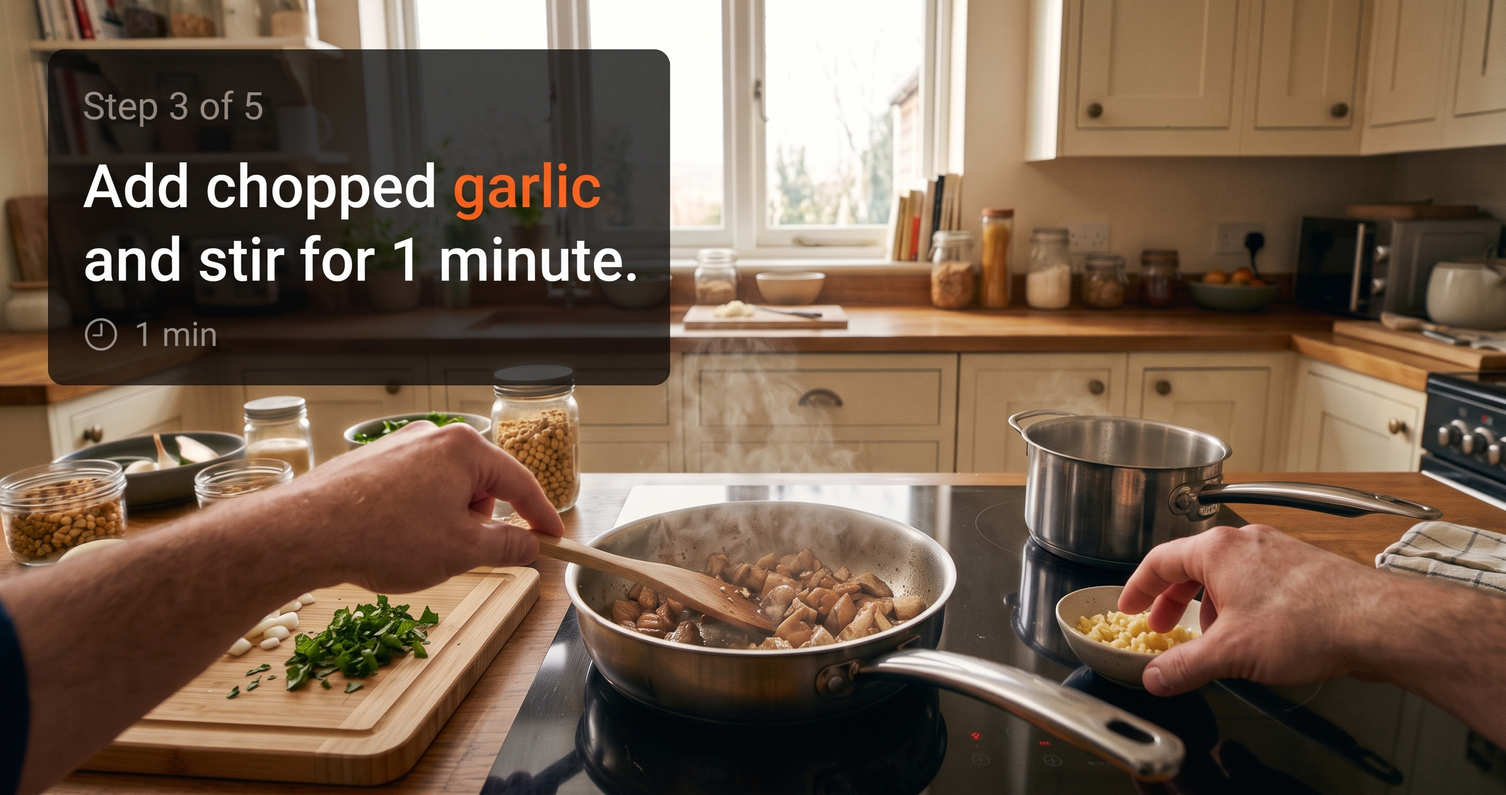
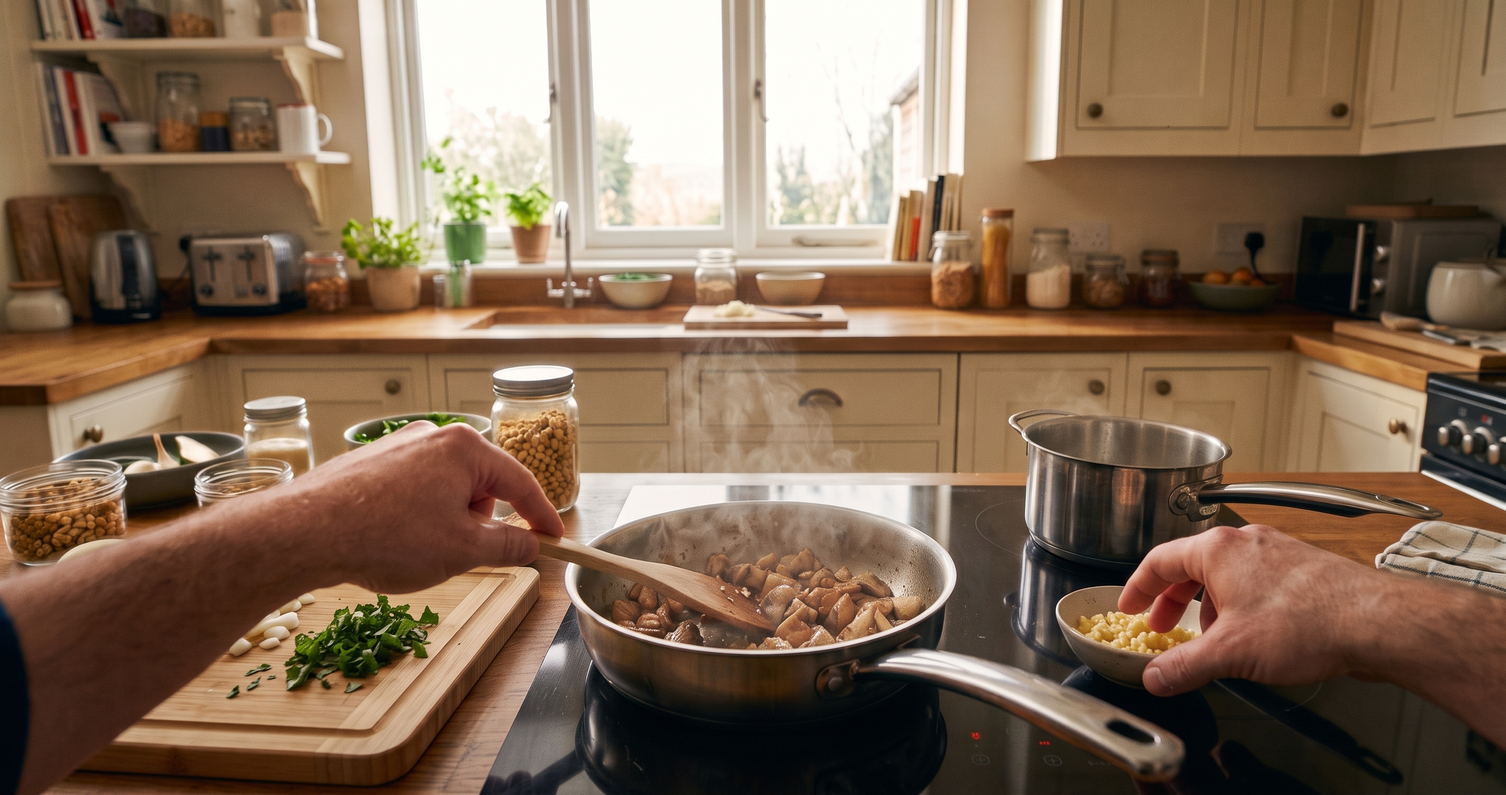
cookpilot thumbnail animation
Claude-Session: https://claude.ai/code/session_01DRr4JVFdREGqWLuBXm2q9T

diff --git a/src/components/Home.jsx b/src/components/Home.jsx
@@ -1,7 +1,11 @@
+import { useEffect, useState } from 'react'
 import bioscentImg from '../assets/work-cards/bioscent.jpg'
 import cookpilotImg from '../assets/work-cards/cookpilot.jpg'
 import visualeyesImg from '../assets/work-cards/visualeyes.jpg'
 import './Home.css'
+
+const INSTRUCTION_HOLD_MS = 4800
+const INSTRUCTION_FADE_MS = 700
 
 const works = [
   {
@@ -30,6 +34,24 @@ const works = [
       label: 'Awards \u{1F3C6}:',
       lines: ['ICON UNSW x Lyra ’26 | 1st Place'],
     },
+    cookingInstructions: [
+      {
+        label: 'Step 1 of 5',
+        text: ['Toast bread slices in pan or toaster until golden ', { highlight: 'brown.' }],
+        meta: '4 min',
+      },
+      {
+        label: 'Step 2 of 5',
+        text: ['Fry spam bacon in a pan on medium heat until cooked ', { highlight: 'through.' }],
+        meta: '5 min',
+      },
+      {
+        label: 'Cooking assistant',
+        icon: '✨',
+        text: ['Spam looks pale and starting to cook. Keep frying on ', { highlight: 'medium' }, ' until brown and hot'],
+        meta: null,
+      },
+    ],
   },
   {
     id: 'visualeyes',
@@ -45,11 +67,72 @@ const works = [
   },
 ]
 
-function WorkCard({ id, image, title, description, role, team, reveal }) {
+function CookingInstructions({ instructions }) {
+  const [index, setIndex] = useState(0)
+  const [visible, setVisible] = useState(true)
+
+  useEffect(() => {
+    const holdTimer = setTimeout(() => setVisible(false), INSTRUCTION_HOLD_MS)
+    return () => clearTimeout(holdTimer)
+  }, [index])
+
+  useEffect(() => {
+    if (visible) return
+    const fadeTimer = setTimeout(() => {
+      setIndex((current) => (current + 1) % instructions.length)
+      setVisible(true)
+    }, INSTRUCTION_FADE_MS)
+    return () => clearTimeout(fadeTimer)
+  }, [visible, instructions.length])
+
+  const step = instructions[index]
+
+  return (
+    <div className="cook-instructions">
+      <div className={`cook-instruction-card${visible ? ' is-visible' : ''}`}>
+        <div className="cook-instruction-label">
+          {step.icon && <span>{step.icon}</span>}
+          <span>{step.label}</span>
+        </div>
+        <p className="cook-instruction-text">
+          {step.text.map((part, i) =>
+            typeof part === 'string' ? (
+              part
+            ) : (
+              <span className="cook-instruction-highlight" key={i}>
+                {part.highlight}
+              </span>
+            )
+          )}
+        </p>
+        {step.meta && (
+          <div className="cook-instruction-meta">
+            <ClockIcon />
+            <span>{step.meta}</span>
+          </div>
+        )}
+      </div>
+    </div>
+  )
+}
+
+function ClockIcon() {
+  return (
+    <svg className="cook-instruction-clock" viewBox="0 0 16 16" width="14" height="14" fill="none" aria-hidden="true">
+      <circle cx="8" cy="8" r="6.25" stroke="currentColor" strokeWidth="1.3" />
+      <path d="M8 4.75V8L10.2 9.4" stroke="currentColor" strokeWidth="1.3" strokeLinecap="round" strokeLinejoin="round" />
+    </svg>
+  )
+}
+
+function WorkCard({ id, image, title, description, role, team, reveal, cookingInstructions }) {
   return (
     <article className="work-card" data-project={id}>
       <div className="work-card-media">
-        <img className="work-card-image" src={image} alt="" />
+        <div className="work-card-image-wrap">
+          <img className="work-card-image" src={image} alt="" />
+          {cookingInstructions && <CookingInstructions instructions={cookingInstructions} />}
+        </div>
         <div className="work-card-heading">
           <h2 className="work-card-title">{title}</h2>
           <p className="work-card-description">{description}</p>

diff --git a/src/components/Home.css b/src/components/Home.css
@@ -141,12 +141,91 @@
   gap: var(--space-3);
 }
 
+.work-card-image-wrap {
+  position: relative;
+}
+
 .work-card-image {
   width: 100%;
   aspect-ratio: 462 / 245;
   object-fit: cover;
   border-radius: var(--radius-image);
   display: block;
+}
+
+/* CookPilot's AR-glasses instruction overlay (482:2478): cycles through
+   the three step cards, each sliding in from the left and holding for
+   INSTRUCTION_DISPLAY_MS before the next replaces it. React re-keys the
+   card on every step change so the slide-in animation replays each time. */
+.cook-instructions {
+  position: absolute;
+  top: 12px;
+  left: 12px;
+  width: 74%;
+  pointer-events: none;
+}
+
+.cook-instruction-card {
+  background: rgba(15, 15, 15, 0.88);
+  border-radius: 12px;
+  padding: 10px 14px;
+  color: var(--color-white);
+  opacity: 0;
+  transition: opacity 700ms ease-in-out;
+  animation: cook-instruction-float 3.2s ease-in-out infinite;
+}
+
+.cook-instruction-card.is-visible {
+  opacity: 1;
+}
+
+.cook-instruction-label {
+  display: flex;
+  align-items: center;
+  gap: 6px;
+  font-family: var(--font-body);
+  font-size: 13px;
+  color: rgba(255, 255, 255, 0.7);
+  margin-bottom: 6px;
+}
+
+.cook-instruction-text {
+  margin: 0;
+  font-family: var(--font-body);
+  font-weight: 600;
+  font-size: 15px;
+  line-height: 1.3;
+}
+
+.cook-instruction-highlight {
+  color: #ff7a45;
+}
+
+.cook-instruction-meta {
+  display: flex;
+  align-items: center;
+  gap: 4px;
+  margin-top: 8px;
+  font-family: var(--font-body);
+  font-size: 13px;
+  color: rgba(255, 255, 255, 0.7);
+}
+
+.cook-instruction-clock {
+  flex-shrink: 0;
+}
+
+@keyframes cook-instruction-float {
+  0%,
+  100% {
+    transform: translateY(0) rotate(0deg);
+  }
+  25% {
+    transform: translateY(-3px) rotate(-1.5deg);
+  }
+  75% {
+    transform: translateY(3px) rotate(1.5deg);
+  }
 }
 
 .work-card-heading {
